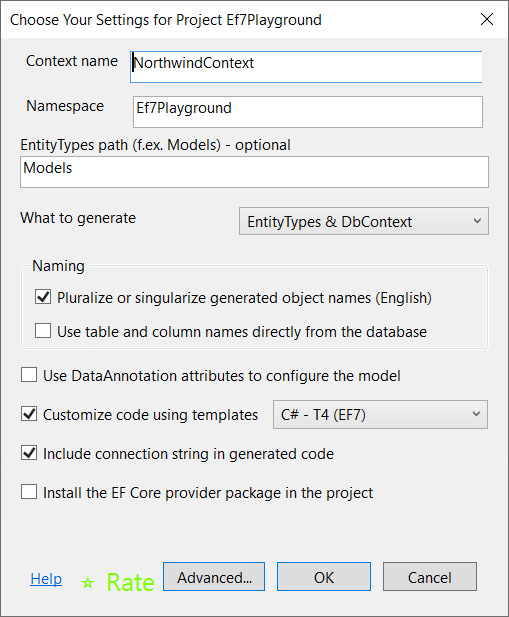
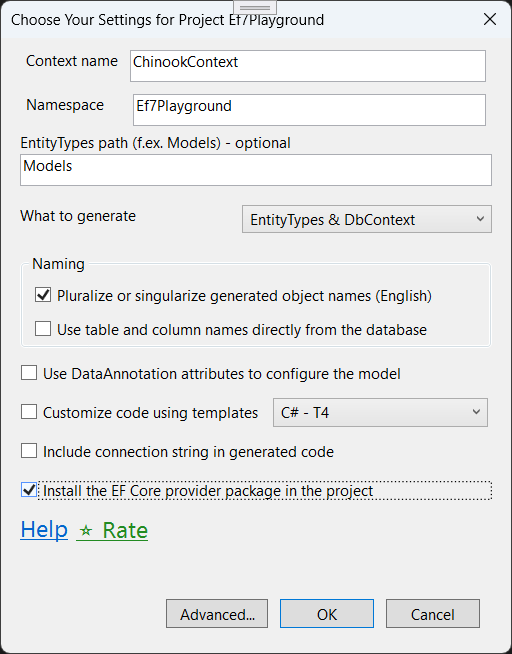
Fix Help and Rate links
Update screenshot

diff --git a/src/GUI/EFCorePowerTools/Dialogs/EfCoreModelDialog.xaml b/src/GUI/EFCorePowerTools/Dialogs/EfCoreModelDialog.xaml
@@ -84,6 +84,7 @@
             <RowDefinition Height="Auto" />
             <RowDefinition Height="Auto" />
             <RowDefinition Height="Auto" />
+            <RowDefinition Height="Auto" />
             <RowDefinition Height="*" />
         </Grid.RowDefinitions>
 
@@ -173,19 +174,19 @@
                   Content="{x:Static locale:ReverseEngineerLocale.InstallEFCoreProviderPackageInProject}"
                   IsChecked="{Binding Model.InstallNuGetPackage}" 
                   Style="{StaticResource GenerationOptionsCheckBoxStyle}"/>
-
-        <StackPanel Grid.Row="12"
-                    Style="{StaticResource ButtonRowStyle}">
-            <TextBlock              
+        <StackPanel Orientation="Horizontal"
+            Grid.Row="12">
+            <TextBlock 
+                FontSize="18"
                 ToolTip="{x:Static locale:ReverseEngineerLocale.UserGuide}"
-                Margin="10,5,0,0" Width="36">
+                Margin="0,2,0,4" >
                 <Hyperlink
                     x:Name="DocLink"
                     RequestNavigate="DocLink_RequestNavigate"
                     NavigateUri="https://github.com/ErikEJ/EFCorePowerTools/wiki/Reverse-Engineering"><Run Text="{x:Static locale:ReverseEngineerLocale.Help}"/></Hyperlink>
             </TextBlock>
-            <Label Padding="2, 0, 0, 6" ToolTip="{x:Static locale:ReverseEngineerLocale.Rate}" Height="30" Width="70" >
-                <Hyperlink FontSize="20" ToolTip="{x:Static locale:ReverseEngineerLocale.RateTip}" Click="Hyperlink_Click" TextDecorations="None" NavigateUri="https://marketplace.visualstudio.com/items?itemName=ErikEJ.EFCorePowerTools&amp;ssr=false#review-details">
+            <Label Padding="6, 2, 2, 0" ToolTip="{x:Static locale:ReverseEngineerLocale.Rate}" Height="30">
+                <Hyperlink FontSize="18" ToolTip="{x:Static locale:ReverseEngineerLocale.RateTip}" Click="Hyperlink_Click" TextDecorations="Underline"  NavigateUri="https://marketplace.visualstudio.com/items?itemName=ErikEJ.EFCorePowerTools&amp;ssr=false#review-details">
                     <Hyperlink.Style>
                         <Style TargetType="{x:Type Hyperlink}"
                             BasedOn="{StaticResource {x:Type Hyperlink}}">
@@ -195,6 +196,10 @@
                     <Run Text="{x:Static locale:ReverseEngineerLocale.Rate}"/>
                 </Hyperlink>
             </Label>
+        </StackPanel>
+
+        <StackPanel Grid.Row="13"
+                    Style="{StaticResource ButtonRowStyle}">
             <dw:DialogButton IsTabStop="False"
                              Content="{x:Static locale:ReverseEngineerLocale.Advanced}"
                              Command="{Binding AdvancedCommand}"/>
